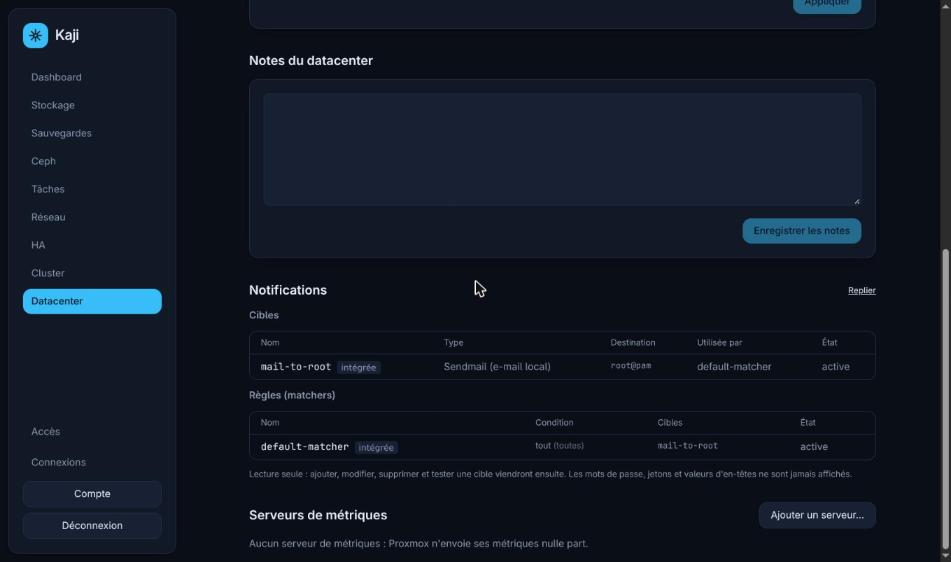
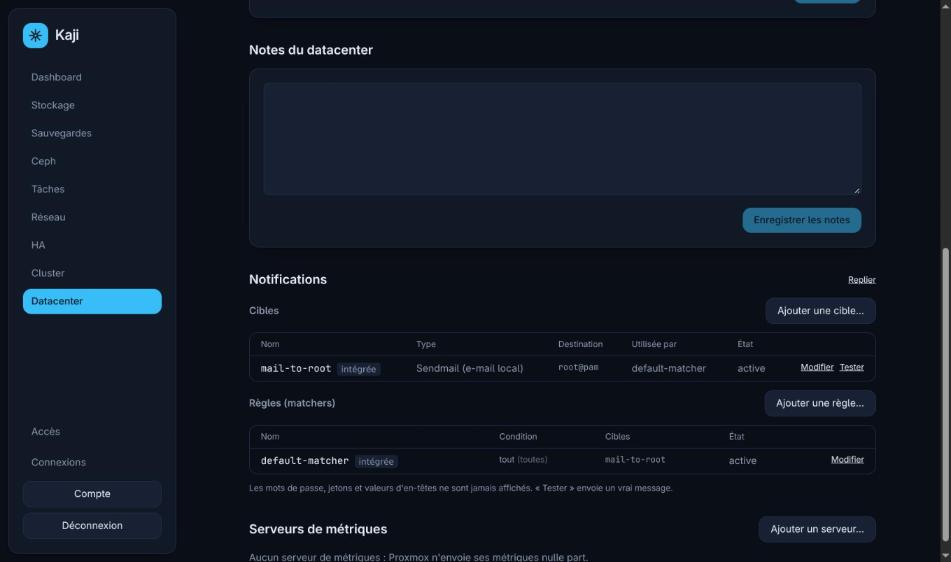
docs(captures): notifications en écriture (cibles, règles, test d'envoi) et droits (28)

diff --git a/README.md b/README.md
@@ -460,9 +460,29 @@ Informations de corosync en lecture seule.
 
 *Notes du datacenter, puis la section **Notifications** qui commence.*
 
-![Notifications et serveurs de métriques](docs/captures/datacenter-3.jpg)
+![Notifications : cibles et règles, avec les boutons d'écriture](docs/captures/datacenter-3.jpg)
 
-*Section **Notifications** (lecture seule) : les cibles (ici `mail-to-root`, la cible intégrée de Proxmox, qui écrit à `root@pam`) avec la règle qui les utilise, et les règles (`default-matcher`). Aucun mot de passe ni jeton n'est affiché. Ajouter, modifier, supprimer ou tester une cible viendra ensuite. Dessous, les serveurs de métriques.*
+*Section **Notifications** : les cibles (ici `mail-to-root`, la cible intégrée de Proxmox, qui écrit à `root@pam`) avec la règle qui les utilise, et les règles (`default-matcher`). Les éléments intégrés ne se suppriment pas. Boutons : ajouter, modifier, tester. Aucun mot de passe ni jeton n'est affiché. Dessous, les serveurs de métriques.*
+
+![Ajouter une cible de notification](docs/captures/notif-cible-creer-1.jpg)
+
+*Ajouter une cible de notification : type (sendmail, SMTP, Gotify ou webhook), destinataires, serveur, port, chiffrement. Le mot de passe est en écriture seule et les adresses locales sont refusées.*
+
+![Bas de la même fenêtre](docs/captures/notif-cible-creer-2.jpg)
+
+*Bas de la même fenêtre : case « Désactivée », **Aperçu** (ce qui serait envoyé à Proxmox, sans secret) puis **Appliquer**.*
+
+![Modifier la cible intégrée `mail-to-root`](docs/captures/notif-cible-modifier.jpg)
+
+*Modifier la cible intégrée `mail-to-root` : commentaire en ASCII seulement (Proxmox altère les accents).*
+
+![Tester une cible](docs/captures/notif-cible-tester.jpg)
+
+*Tester une cible : envoie un VRAI message, une fois par minute au plus, et il faut retaper le nom de la cible. Le bouton reste grisé tant que le nom n'est pas exact.*
+
+![Ajouter une règle](docs/captures/notif-regle-creer.jpg)
+
+*Ajouter une règle : cibles, gravités, champs, calendrier, mode et inversion.*
 
 ![Ajouter un serveur de métriques (InfluxDB, Graphite…) ](docs/captures/datacenter-metriques.jpg)
 
@@ -516,13 +536,13 @@ Tout ce qui concerne un serveur Proxmox : supervision, système, services, disqu
 
 Ce que le token de Kaji peut faire, et les droits Proxmox (lecture seule). Les pages « Connexions » et « Compte », qui touchent aux tokens et aux mots de passe, ne sont pas montrées.
 
-![Mode administrateur (session temporaire) et liste des 27 droits dont Kaji a besoin](docs/captures/acces-1.jpg)
+![Mode administrateur (session temporaire) et liste des 28 droits dont Kaji a besoin](docs/captures/acces-1.jpg)
 
-*Mode administrateur (session temporaire) et liste des 27 droits dont Kaji a besoin.*
+*Mode administrateur (session temporaire) et liste des 28 droits dont Kaji a besoin : 27 sont accordés, 1 manque.*
 
-![Suite des droits ](docs/captures/acces-2.jpg)
+![Suite des droits, avec le droit de notification manquant](docs/captures/acces-2.jpg)
 
-*Suite des droits : snapshots, clonage, migration, sauvegardes, console, HA, réplication, **notifications (lecture)**, datacenter…*
+*Suite des droits : snapshots, clonage, migration, sauvegardes, console, HA, réplication, **notifications (lecture et écriture)**, datacenter… Ici, le droit `Mapping.Modify` sur `/mapping/notifications` n'est pas accordé : l'écriture des notifications reste donc refusée tant qu'il manque, et la page affiche la commande pour le donner.*
 
 ![Fin des droits, puis utilisateurs et groupes](docs/captures/acces-3.jpg)
 
